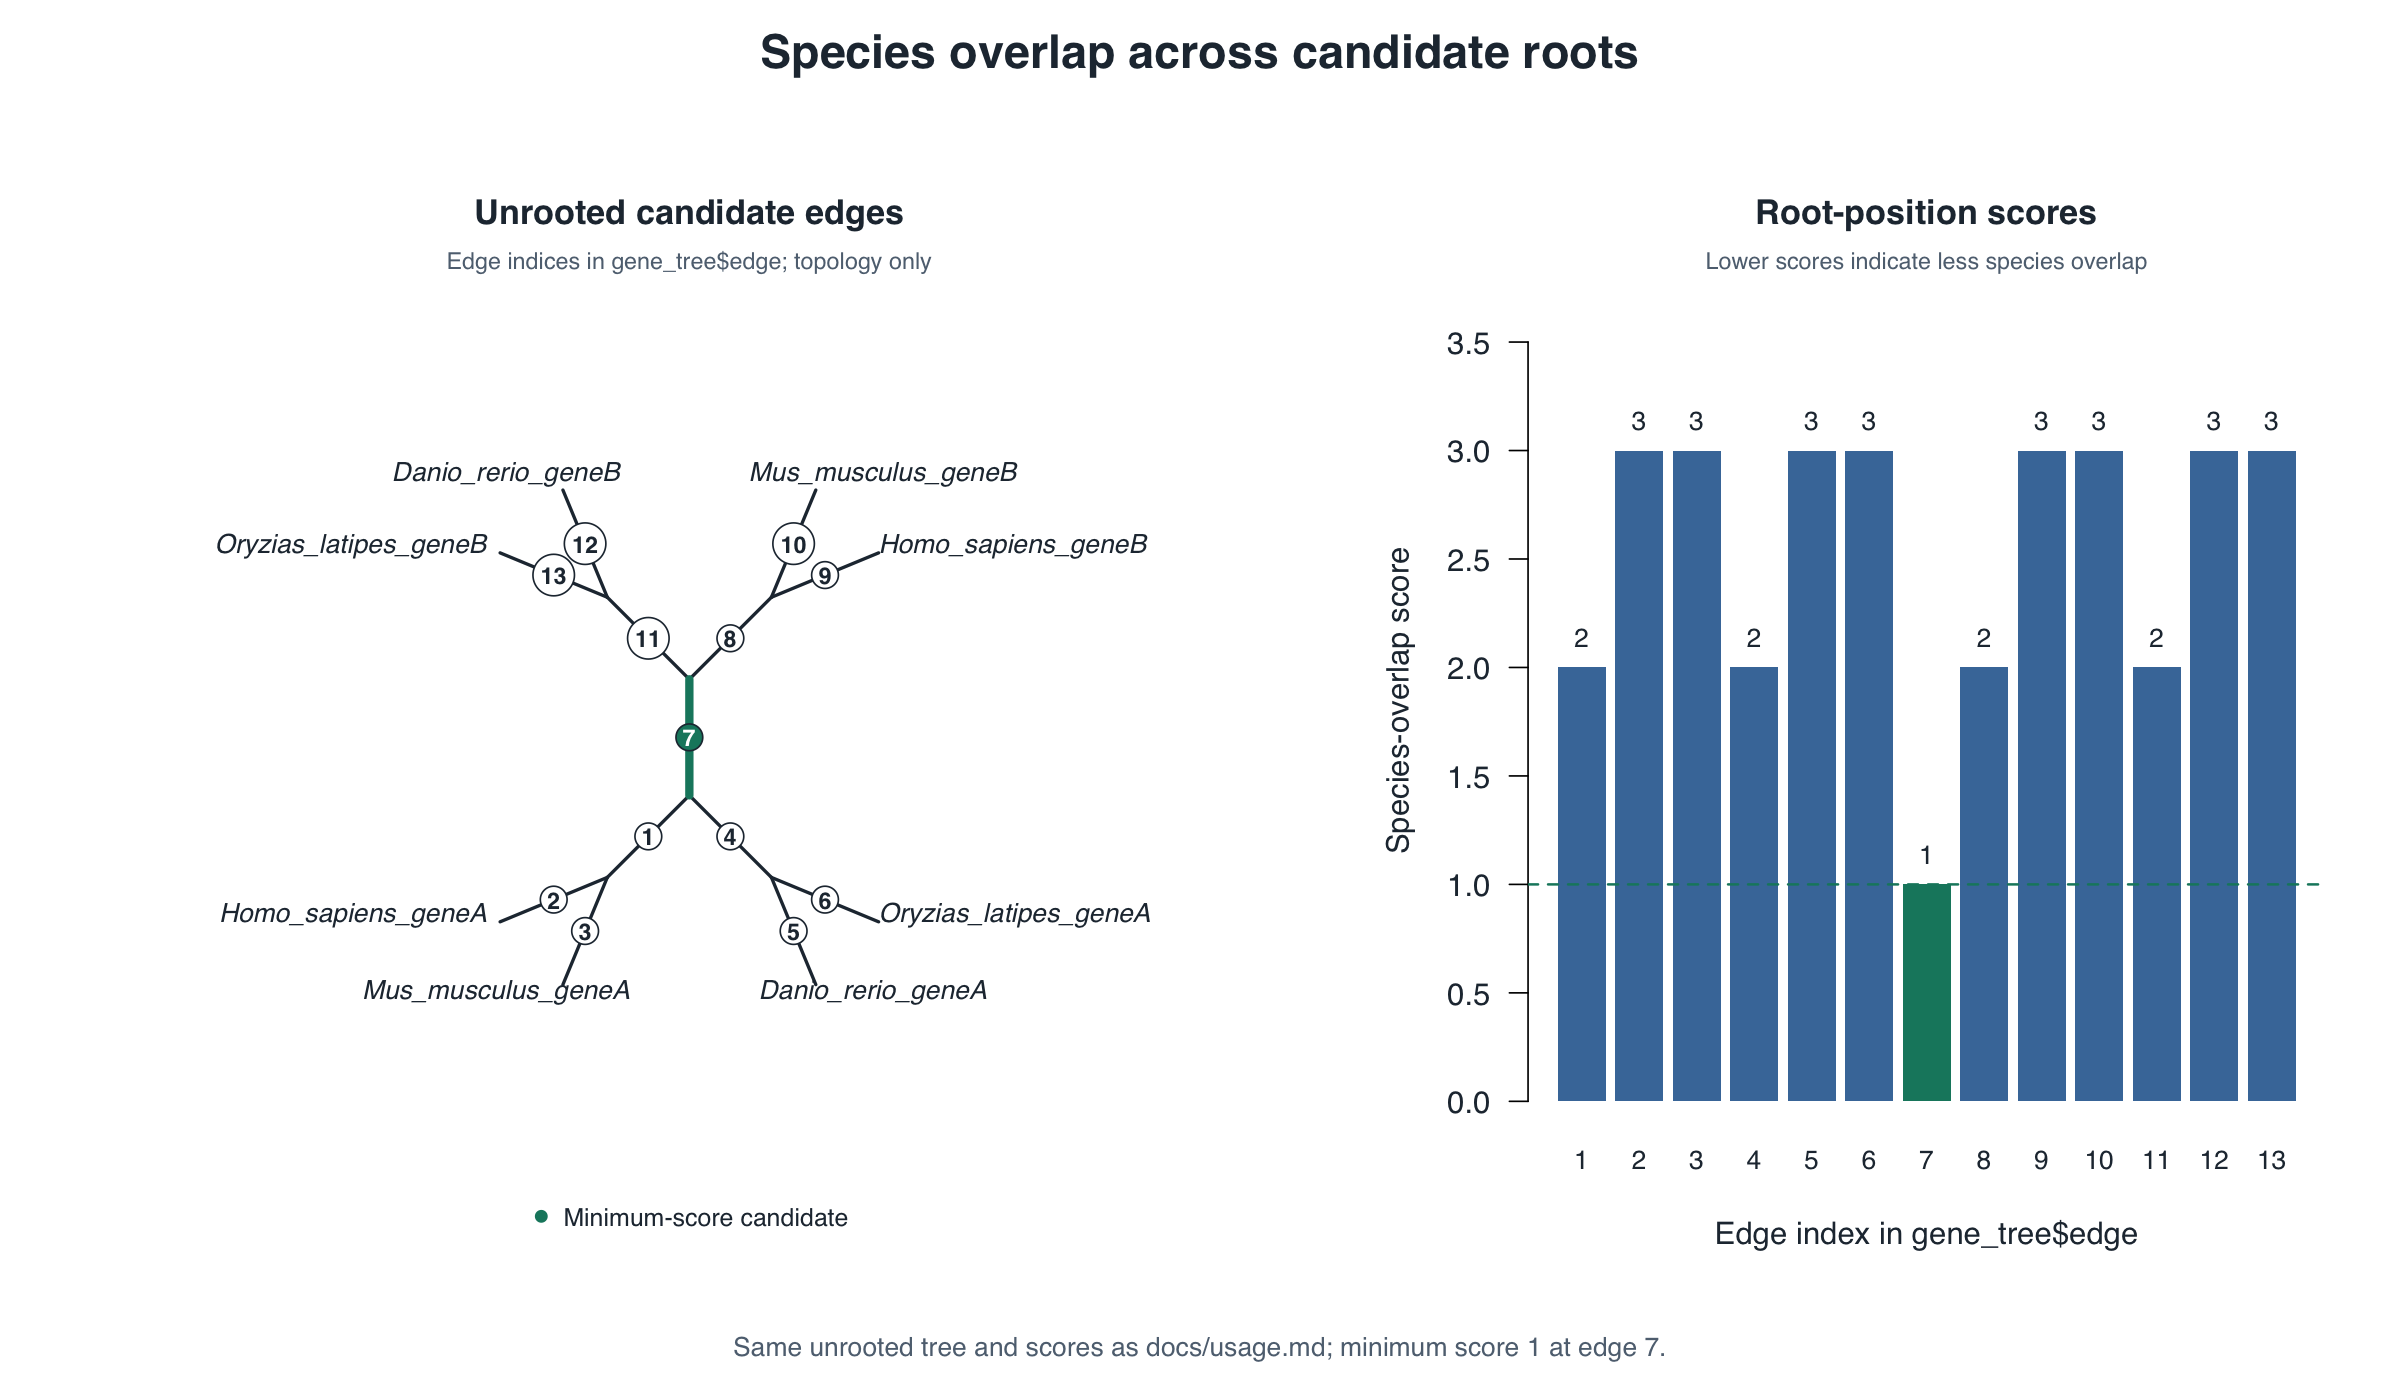
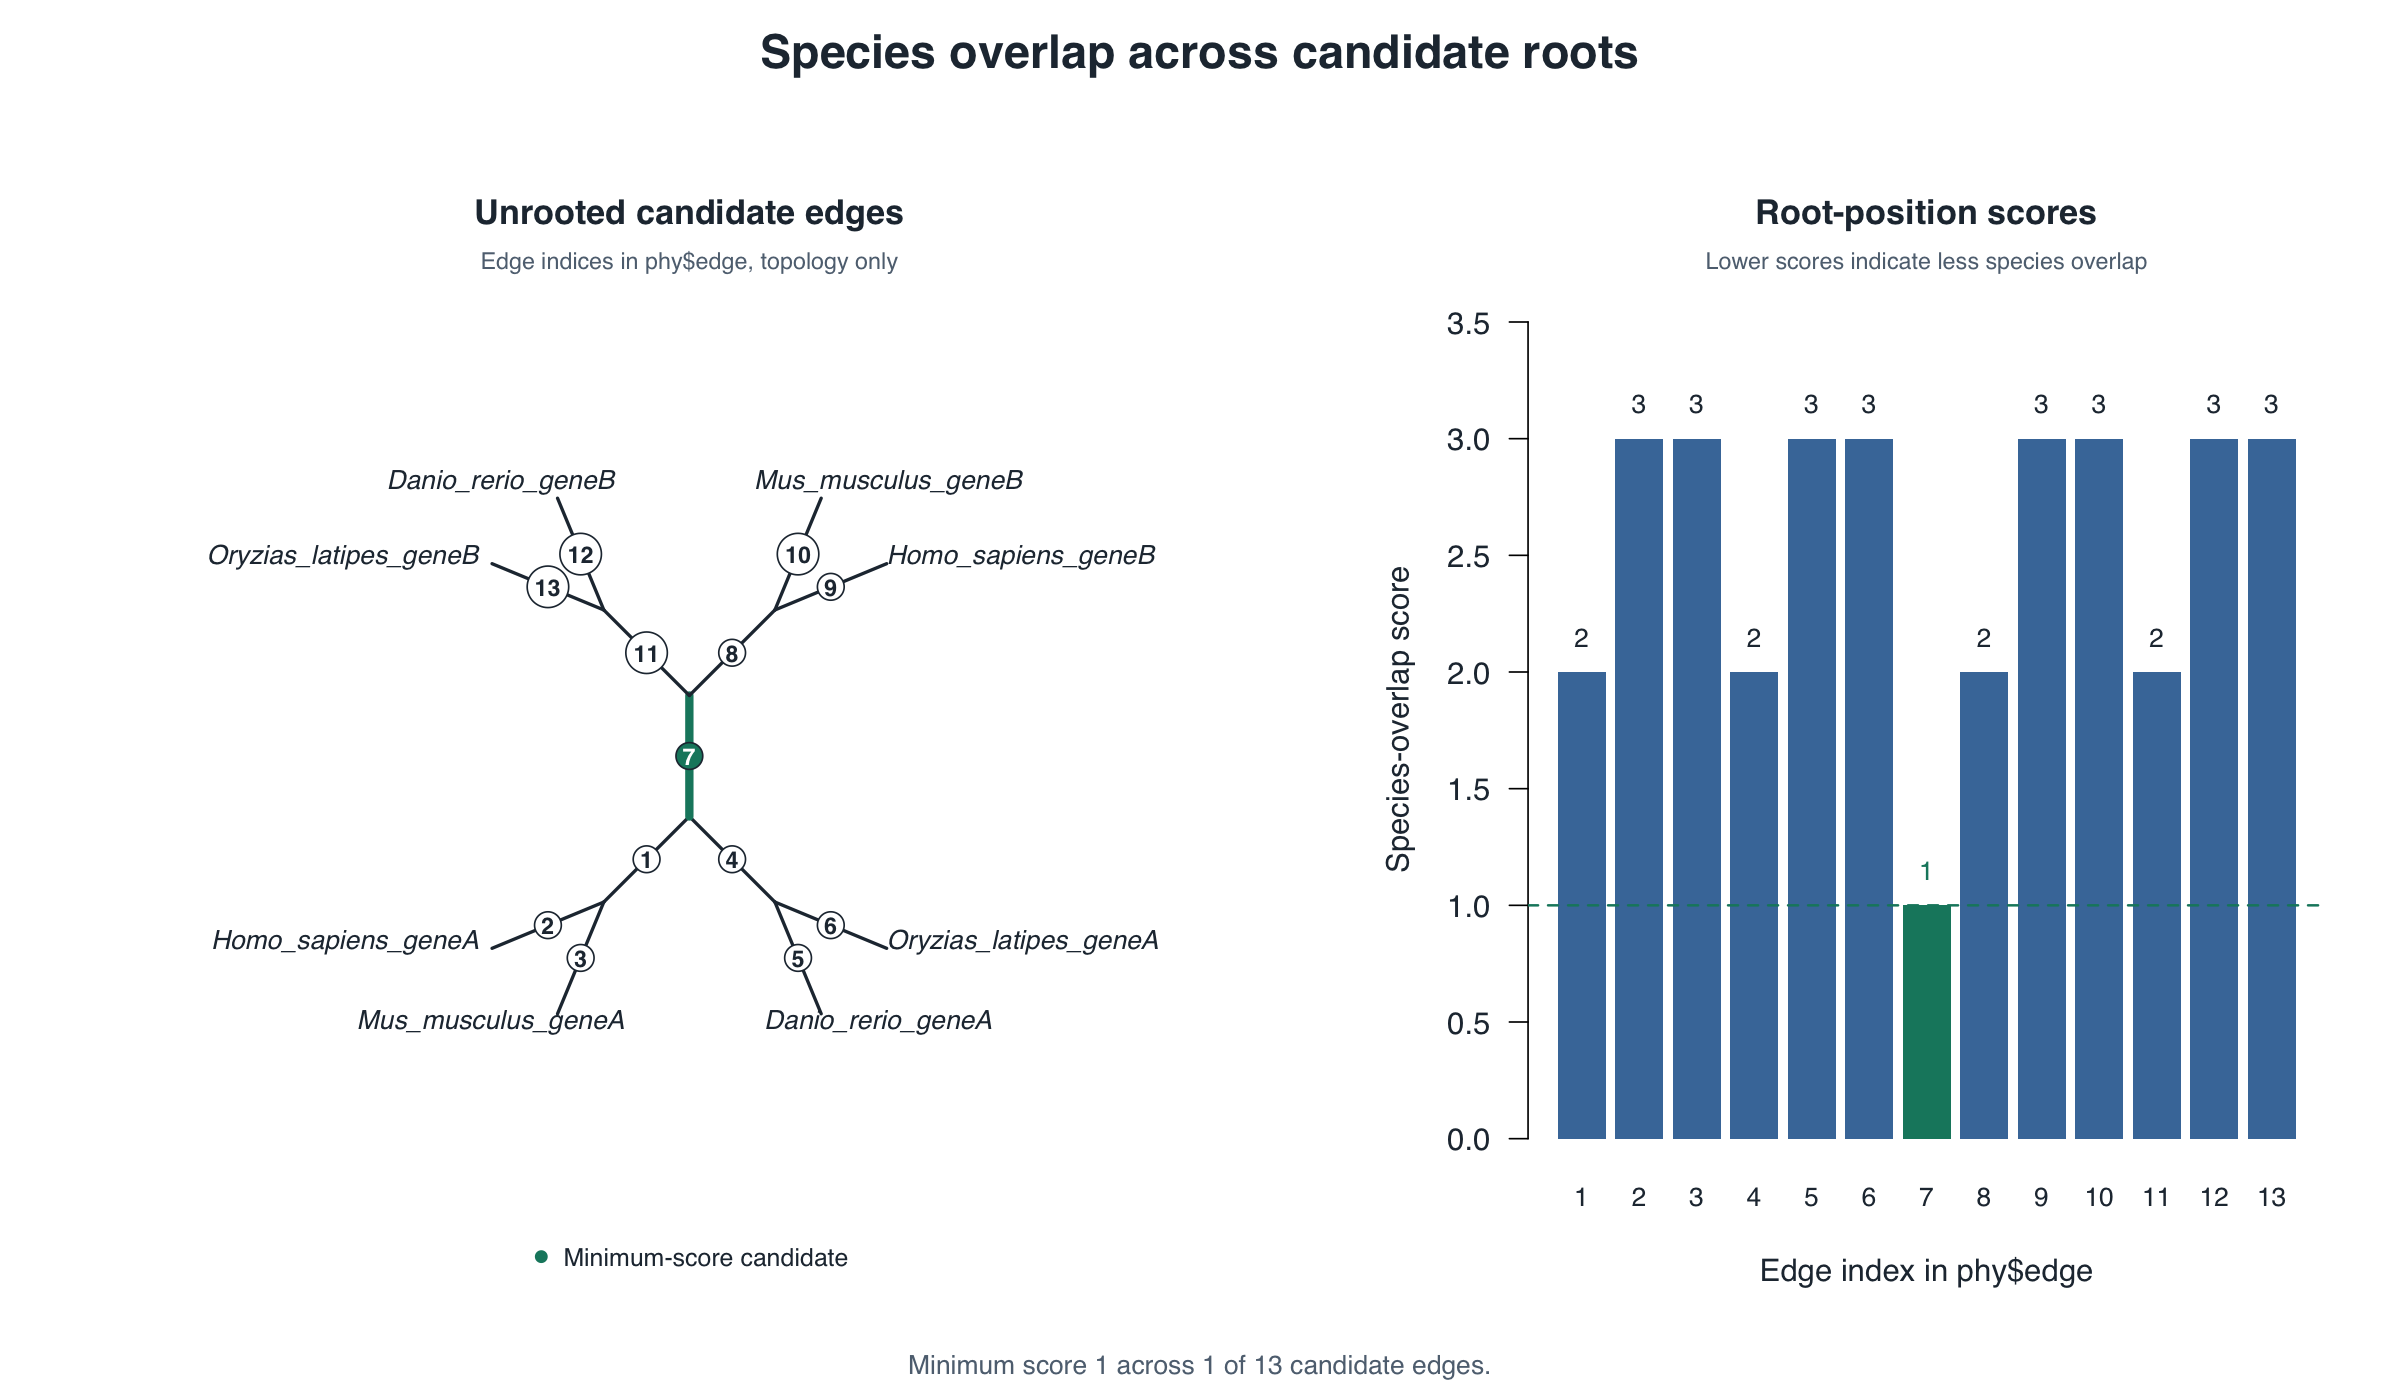
Add species-overlap root plots and optimize scoring

diff --git a/README.md b/README.md
@@ -1,6 +1,6 @@
 # Overview
 [![R-CMD-check](https://github.com/kfuku52/rkftools/actions/workflows/r-cmd-check.yaml/badge.svg)](https://github.com/kfuku52/rkftools/actions/workflows/r-cmd-check.yaml)
-[![Version](https://img.shields.io/badge/version-0.1.19-informational)](https://github.com/kfuku52/rkftools)
+[![Version](https://img.shields.io/badge/version-0.1.20-informational)](https://github.com/kfuku52/rkftools)
 [![R](https://img.shields.io/badge/R-%3E%3D%204.1.0-276DC3?logo=r)](https://www.r-project.org/)
 [![License](https://img.shields.io/badge/license-MIT-yellow.svg)](LICENSE.md)
 [![Last commit](https://img.shields.io/github/last-commit/kfuku52/rkftools)](https://github.com/kfuku52/rkftools/commits/master)
@@ -10,6 +10,26 @@
 [![GitHub forks](https://img.shields.io/github/forks/kfuku52/rkftools)](https://github.com/kfuku52/rkftools/network/members)
 
 This R package contains various tools to handle data in evolutionary biology.
+
+## Comparing candidate roots by species overlap
+
+`plot_root_position_species_overlap()` draws a gene tree alongside the
+species-overlap score for each candidate root. The bundled example highlights
+branch 7, which has the lowest score.
+
+![Unrooted gene tree and species-overlap scores, with branch 7 highlighted in both panels](man/figures/root_position_species_overlap.png)
+
+```r
+library(rkftools)
+
+gene_tree <- ape::unroot(species_overlap_example_tree)
+png("root_position_species_overlap.png", width = 2400, height = 1400,
+    res = 160, pointsize = 14)
+plot_root_position_species_overlap(gene_tree)
+dev.off()
+```
+
+[See how edge indices and scores are related](docs/usage.md#score-candidate-root-positions-by-species-overlap).
 
 # Dependency
 Required:

diff --git a/docs/usage.md b/docs/usage.md
@@ -60,28 +60,19 @@ Use an explicit output path for each result you want to retain.
 ```r
 library(rkftools)
 
-gene_tree = ape::read.tree(text=paste0(
-    "(((Homo_sapiens_geneA:0.12,Mus_musculus_geneA:0.12):0.18,",
-    "(Danio_rerio_geneA:0.16,Oryzias_latipes_geneA:0.16):0.14):0.25,",
-    "((Homo_sapiens_geneB:0.11,Mus_musculus_geneB:0.11):0.19,",
-    "(Danio_rerio_geneB:0.15,Oryzias_latipes_geneB:0.15):0.15):0.25);"
-))
-
 # Edge indices in the figure refer to this unrooted object.
-gene_tree = ape::unroot(gene_tree)
-root_scores = get_root_position_dependent_species_overlap_scores(
-    gene_tree,
-    nslots=1
-)
+gene_tree = ape::unroot(species_overlap_example_tree)
+root_scores = get_root_position_dependent_species_overlap_scores(gene_tree)
 which(root_scores == min(root_scores)) # 7
 ```
 
 Each score corresponds to the same row of `gene_tree$edge`. The example and
 figure both use the unrooted tree's 13 edges; the minimum-score candidate is
 edge 7. Scoring the original rooted tree instead gives 14 edges and minimum
-indices 1 and 8. Unrooting changes the edge indices, so keep the scored tree
-and the tree used for plotting together. The left diagram shows topology;
-branch lengths are not to scale.
+indices 1 and 8. Unrooting changes the edge indices. Pass the same tree to
+`plot_root_position_species_overlap(gene_tree)` to draw the topology and the
+corresponding scores on the active graphics device.
+[The README example saves the plot as a PNG](../README.md#comparing-candidate-roots-by-species-overlap).
 
 ![root-position species-overlap score example](../man/figures/root_position_species_overlap.png)
 

diff --git a/docs/development.md b/docs/development.md
@@ -41,8 +41,9 @@ errors in those checks, not silent skips.
 `make document` regenerates the Rd files with roxygen2, with Markdown enabled
 in DESCRIPTION so inline code and function references render as R help.
 `make figures` executes the R examples in `docs/usage.md` and regenerates both
-figures in `man/figures/`. It uses the actual tree labels, edge rows, branch
-table, and computed scores, so figure values are not maintained separately.
+figures in `man/figures/`. The root-scoring figure calls
+`plot_root_position_species_overlap()` on the bundled example tree used in the
+guide. Both figures use the actual example objects and computed results.
 Regenerate and visually inspect the figures after changing the examples or
 tree conversion/scoring code. No plotting packages beyond base R and the
 existing runtime dependencies are needed.

diff --git a/NEWS.md b/NEWS.md
@@ -1,3 +1,9 @@
+# rkftools 0.1.20
+
+- Add `plot_root_position_species_overlap()` and a bundled example gene tree.
+- Speed up candidate-root scoring by counting species shared among neighboring
+  clades without comparing every pair of clades.
+
 # rkftools 0.1.19
 
 - Update the CI dependency-setup action to retain the pak library environment
